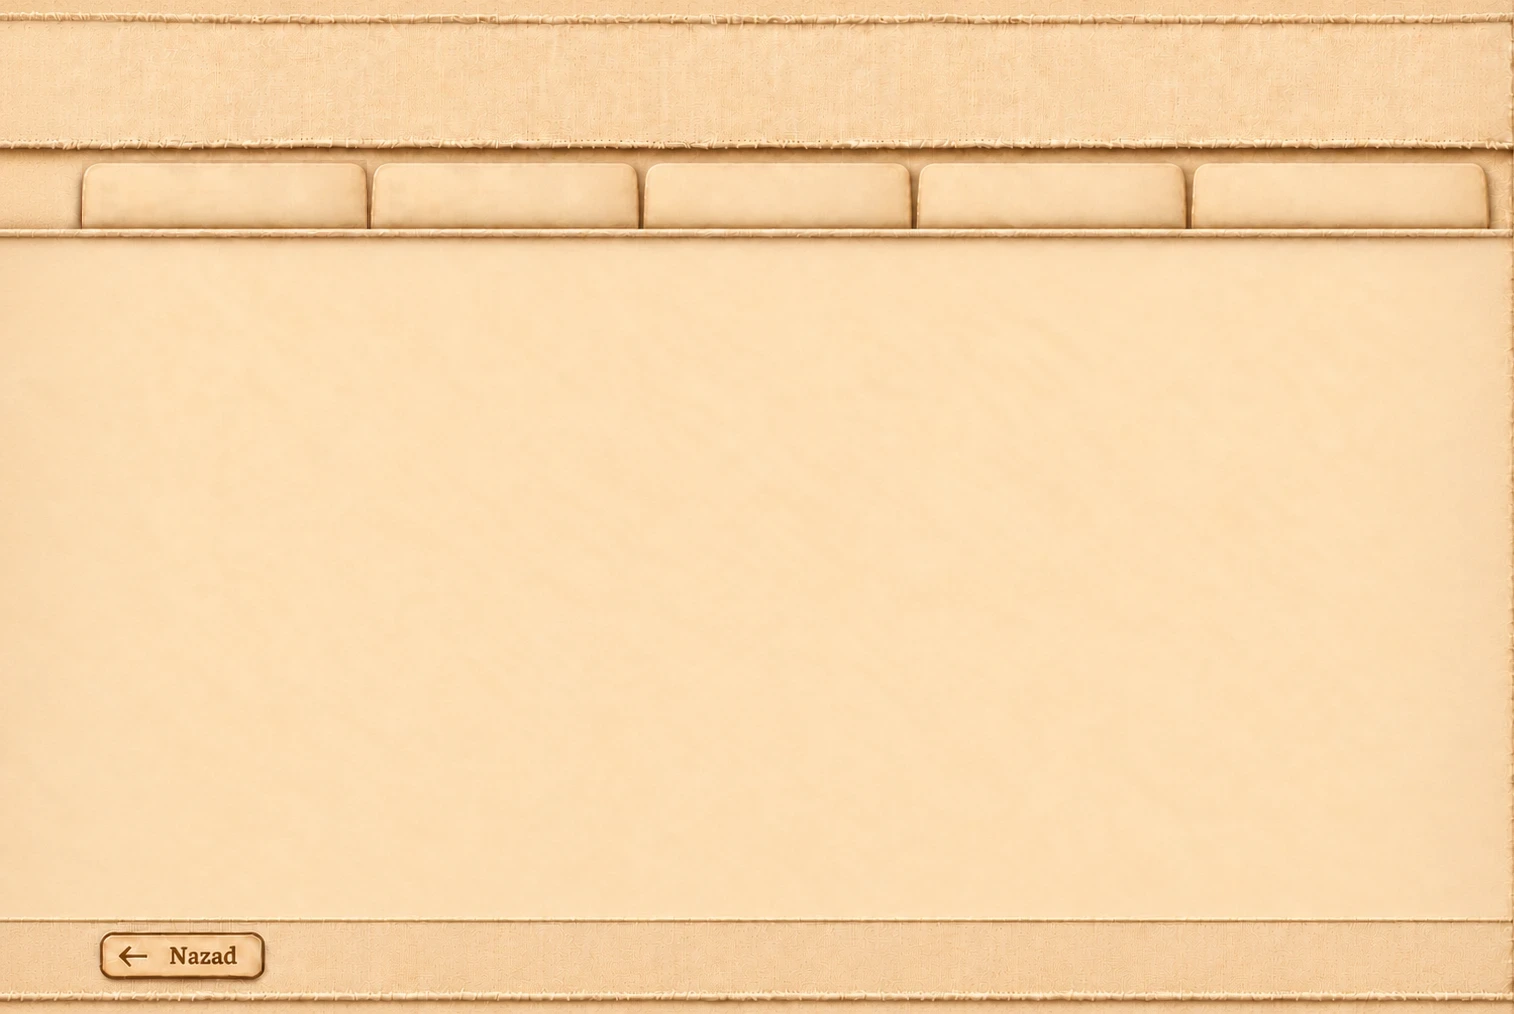
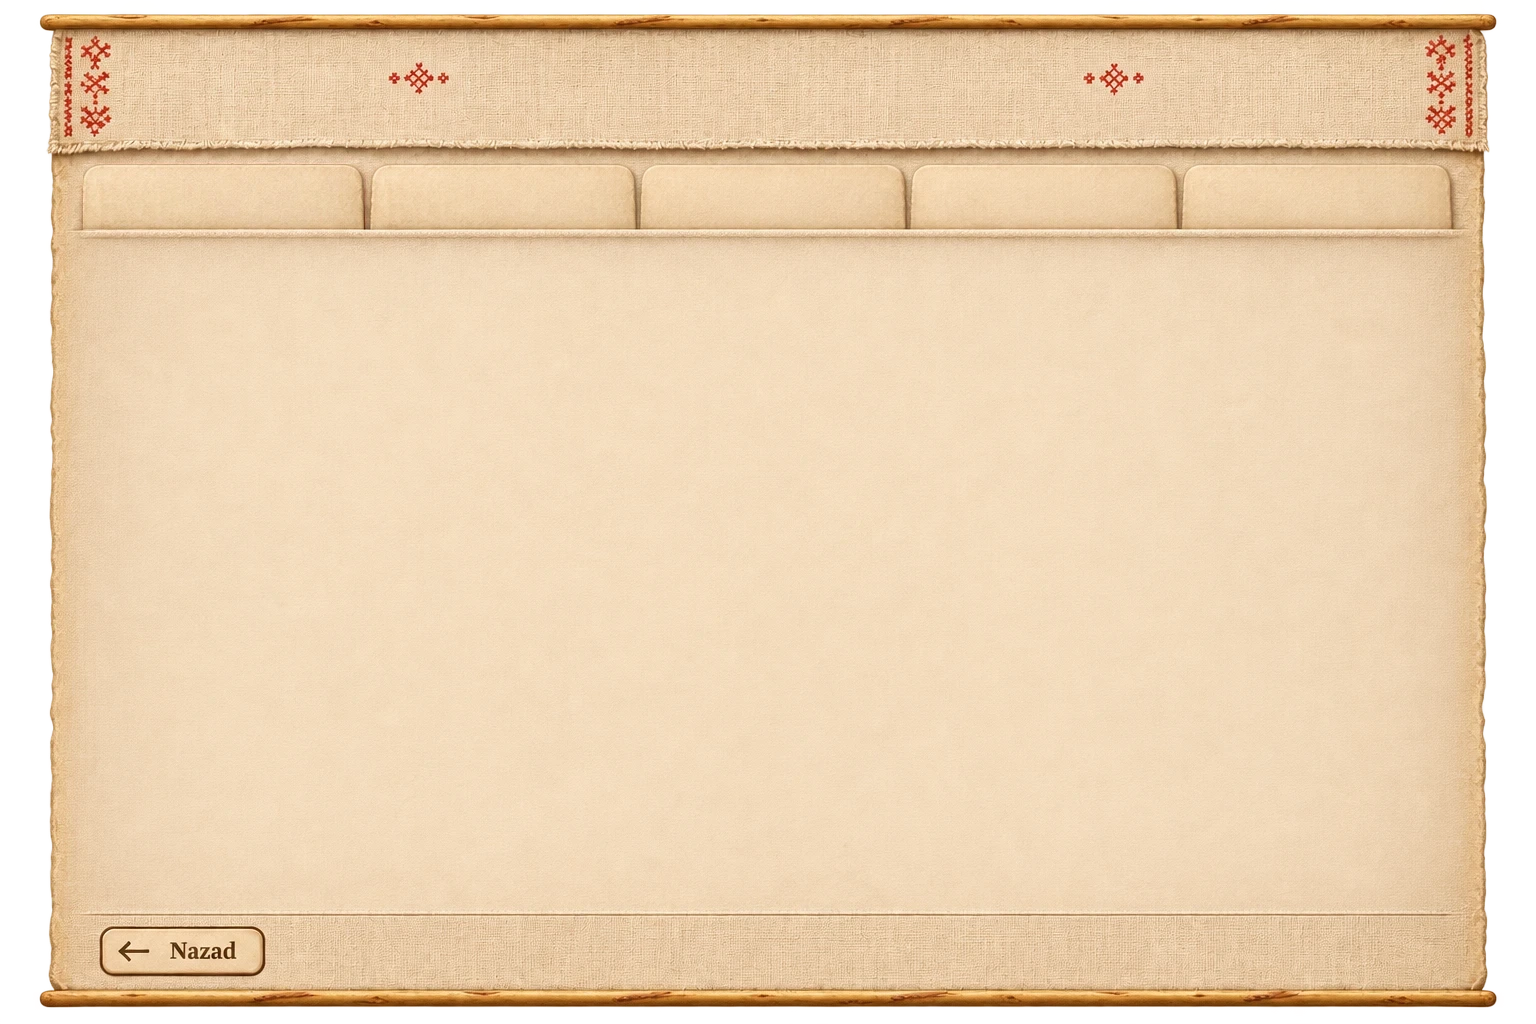
Knowledge map: new drawn window frame with rods, tabs and bars aligned
Claude-Session: https://claude.ai/code/session_01LvBFGzeMfHTaYJ7uVyqQ2u

Changed region(s): [[0.0, 0.0, 1.0, 1.0]]

diff --git a/css/knowledge-tree.css b/css/knowledge-tree.css
@@ -4,19 +4,19 @@
 body.kt-open #ktBtn{display:none}
 #ktRoot{position:fixed;inset:0;overflow:hidden;z-index:2147483600;display:none;align-items:center;justify-content:center;background:rgba(22,12,7,.78);font-family:Georgia,'Times New Roman',serif;color:#3a1f10;user-select:none}
 body.kt-open #ktRoot{display:flex}
-#ktPanel{position:absolute;left:50%;top:50%;width:1514px;height:1014px;transform:translate(-50%,-50%) scale(var(--k,1));transform-origin:50% 50%;background:url(../assets/ui/karta/okvir.webp) 0 0/100% 100% no-repeat;overflow:hidden}
-.kt-badge{position:absolute;left:40px;top:34px;width:92px;height:93px;background:url(../assets/ui/napredak/zvezde/znacka_nivo.png) 0 0/100% 100% no-repeat;display:flex;align-items:center;justify-content:center}
+#ktPanel{position:absolute;left:50%;top:50%;width:1536px;height:1024px;transform:translate(-50%,-50%) scale(var(--k,1));transform-origin:50% 50%;background:url(../assets/ui/karta/okvir.webp) 0 0/100% 100% no-repeat;overflow:hidden}
+.kt-badge{position:absolute;left:140px;top:30px;width:92px;height:93px;background:url(../assets/ui/napredak/zvezde/znacka_nivo.png) 0 0/100% 100% no-repeat;display:flex;align-items:center;justify-content:center}
 .kt-badge b{font-size:28px;line-height:1;margin-top:-2px}
-.kt-res{position:absolute;right:56px;top:40px;display:flex;gap:12px;align-items:center}
+.kt-res{position:absolute;right:140px;top:36px;display:flex;gap:12px;align-items:center}
 .kt-pl{position:relative;display:flex;align-items:center;justify-content:flex-end;background-size:100% 100%;background-repeat:no-repeat;font-weight:800;color:#3a1f10}
 .kt-res .kt-pl{width:200px;height:70px;padding-right:22px;font-size:24px;white-space:nowrap}
 .kt-x{width:50px;height:50px;border-radius:50%;border:4px solid #3a1f10;background:#e7c778;font:900 26px Arial;color:#3a1f10;cursor:pointer;box-shadow:0 3px 0 #765414;margin-left:8px}
-.kt-tab{position:absolute;top:160px;height:72px;display:flex;align-items:center;justify-content:center;gap:10px;cursor:pointer;font-weight:800;font-size:25px;color:#7a4a2a;background-size:100% 100%;background-repeat:no-repeat}
+.kt-tab{position:absolute;top:164px;height:66px;display:flex;align-items:center;justify-content:center;gap:10px;cursor:pointer;font-weight:800;font-size:25px;color:#7a4a2a;background-size:100% 100%;background-repeat:no-repeat}
 .kt-tab small{font-size:15px;opacity:.85}
 .kt-tab.on{color:#fff3dc;background-image:url(../assets/ui/karta/tab_crveni.webp);text-shadow:0 1px 2px rgba(60,10,5,.7)}
 .kt-tab:not(.on):hover{filter:brightness(1.05)}
-#ktNazad{position:absolute;left:100px;top:933px;width:166px;height:46px;cursor:pointer}
-#ktBoard{position:absolute;left:0;top:238px;width:1514px;height:680px;overflow-x:auto;overflow-y:hidden;cursor:grab;scrollbar-width:none;background:url(../assets/ui/karta/platno.webp) 0 0/auto 100% repeat-x}
+#ktNazad{position:absolute;left:100px;top:928px;width:166px;height:48px;cursor:pointer}
+#ktBoard{position:absolute;left:66px;top:239px;width:1404px;height:674px;overflow-x:auto;overflow-y:hidden;cursor:grab;scrollbar-width:none;background:url(../assets/ui/karta/platno.webp) 0 0/auto 100% repeat-x}
 #ktBoard::-webkit-scrollbar{display:none}
 #ktBoard.drag{cursor:grabbing}
 #ktInner{position:relative;height:100%}
@@ -57,10 +57,10 @@ body.kt-open #ktRoot{display:flex}
 #ktTip b{display:block;font-size:17px;border-bottom:2px solid #3a1f10;margin-bottom:5px;padding-bottom:2px}
 #ktTip em{display:block;font-style:normal;margin-top:5px;font-weight:700}
 #ktTip .need{color:#a3321c;font-weight:700}
-#ktFoot{position:absolute;left:300px;right:40px;top:927px;height:56px;display:flex;align-items:center;gap:8px;font-size:13px;font-weight:700}
+#ktFoot{position:absolute;left:300px;right:90px;top:926px;height:56px;display:flex;align-items:center;gap:8px;font-size:13px;font-weight:700}
 #ktFoot button{padding:5px 11px;border-radius:9px;border:2px solid #3a1f10;background:#e7c778;color:#3a1f10;font:800 13px Georgia,serif;cursor:pointer}
 #ktFoot .sp{flex:1}
-#ktToast{position:absolute;left:50%;top:880px;transform:translateX(-50%);background:#3a1f10;color:#fff3dc;padding:8px 18px;border-radius:12px;font-weight:700;font-size:16px;opacity:0;transition:opacity .2s;pointer-events:none;z-index:5}
+#ktToast{position:absolute;left:50%;top:872px;transform:translateX(-50%);background:#3a1f10;color:#fff3dc;padding:8px 18px;border-radius:12px;font-weight:700;font-size:16px;opacity:0;transition:opacity .2s;pointer-events:none;z-index:5}
 #ktToast.on{opacity:1}
 
 .kt-or{position:absolute;left:50%;top:-4px;transform:translateX(-50%);padding:1px 9px;border-radius:10px;background:#e2b24a;border:2px solid #7a5418;color:#3a1f10;font:900 11px Georgia,serif;letter-spacing:.5px;z-index:2;box-shadow:0 2px 3px rgba(40,20,5,.4)}

diff --git a/index.html b/index.html
@@ -16,7 +16,7 @@
 <link href="css/ui-visible-shadow.css?v=1" rel="stylesheet"/>
 <link href="css/ui-scene-light.css?v=5" rel="stylesheet"/>
 <link href="css/ke-pergament.css?v=14" rel="stylesheet"/>
-<link href="css/knowledge-tree.css?v=8" rel="stylesheet"/>
+<link href="css/knowledge-tree.css?v=9" rel="stylesheet"/>
 <link href="css/pantry-scene.css?v=3.12" rel="stylesheet"/>
 <link href="css/tavern-scene.css?v=2" rel="stylesheet"/>
 </head>
@@ -242,7 +242,7 @@
 <script src="js/ke-pergament.js?v=17"></script>
 <script src="js/ke-unroll.js?v=8"></script>
 <script src="js/data/knowledge-tree-data.js?v=4"></script>
-<script src="js/knowledge-tree.js?v=8"></script>
+<script src="js/knowledge-tree.js?v=9"></script>
 <script src="js/stir-fluid.js?v=42"></script>
 <script src="js/pan-sizzle.js?v=1"></script>
 <script src="js/mince-atlas.js?v=3"></script>

diff --git a/js/knowledge-tree.js b/js/knowledge-tree.js
@@ -107,12 +107,12 @@ function build(){
   window.addEventListener('resize',function(){if(isOpen())fit();});
   document.addEventListener('keydown',function(e){if(e.key==='Escape'&&isOpen()){e.stopPropagation();close();}},true);
 }
-var TABX=[[82,366],[372,638],[646,911],[919,1185],[1193,1487]];
-function kk(){return Math.min(innerWidth*.98/1514,innerHeight*.98/1014);}
+var TABX=[[83,364],[372,636],[641,906],[912,1178],[1184,1451]];
+function kk(){return Math.min(innerWidth*.98/1536,innerHeight*.98/1024);}
 function fit(){panel.style.setProperty('--k',kk());}
 function isOpen(){return document.body.classList.contains('kt-open');}
 function metrics(){
-  var h=680,rowH=Math.floor((h-20)/4),D=124;
+  var h=674,rowH=Math.floor((h-20)/4),D=124;
   M={D:D,ch:rowH-6,cw:176,rowH:rowH,colW:270,padL:46,padT:12};
   M.w=M.padL+COLS*M.colW+30;
 }
